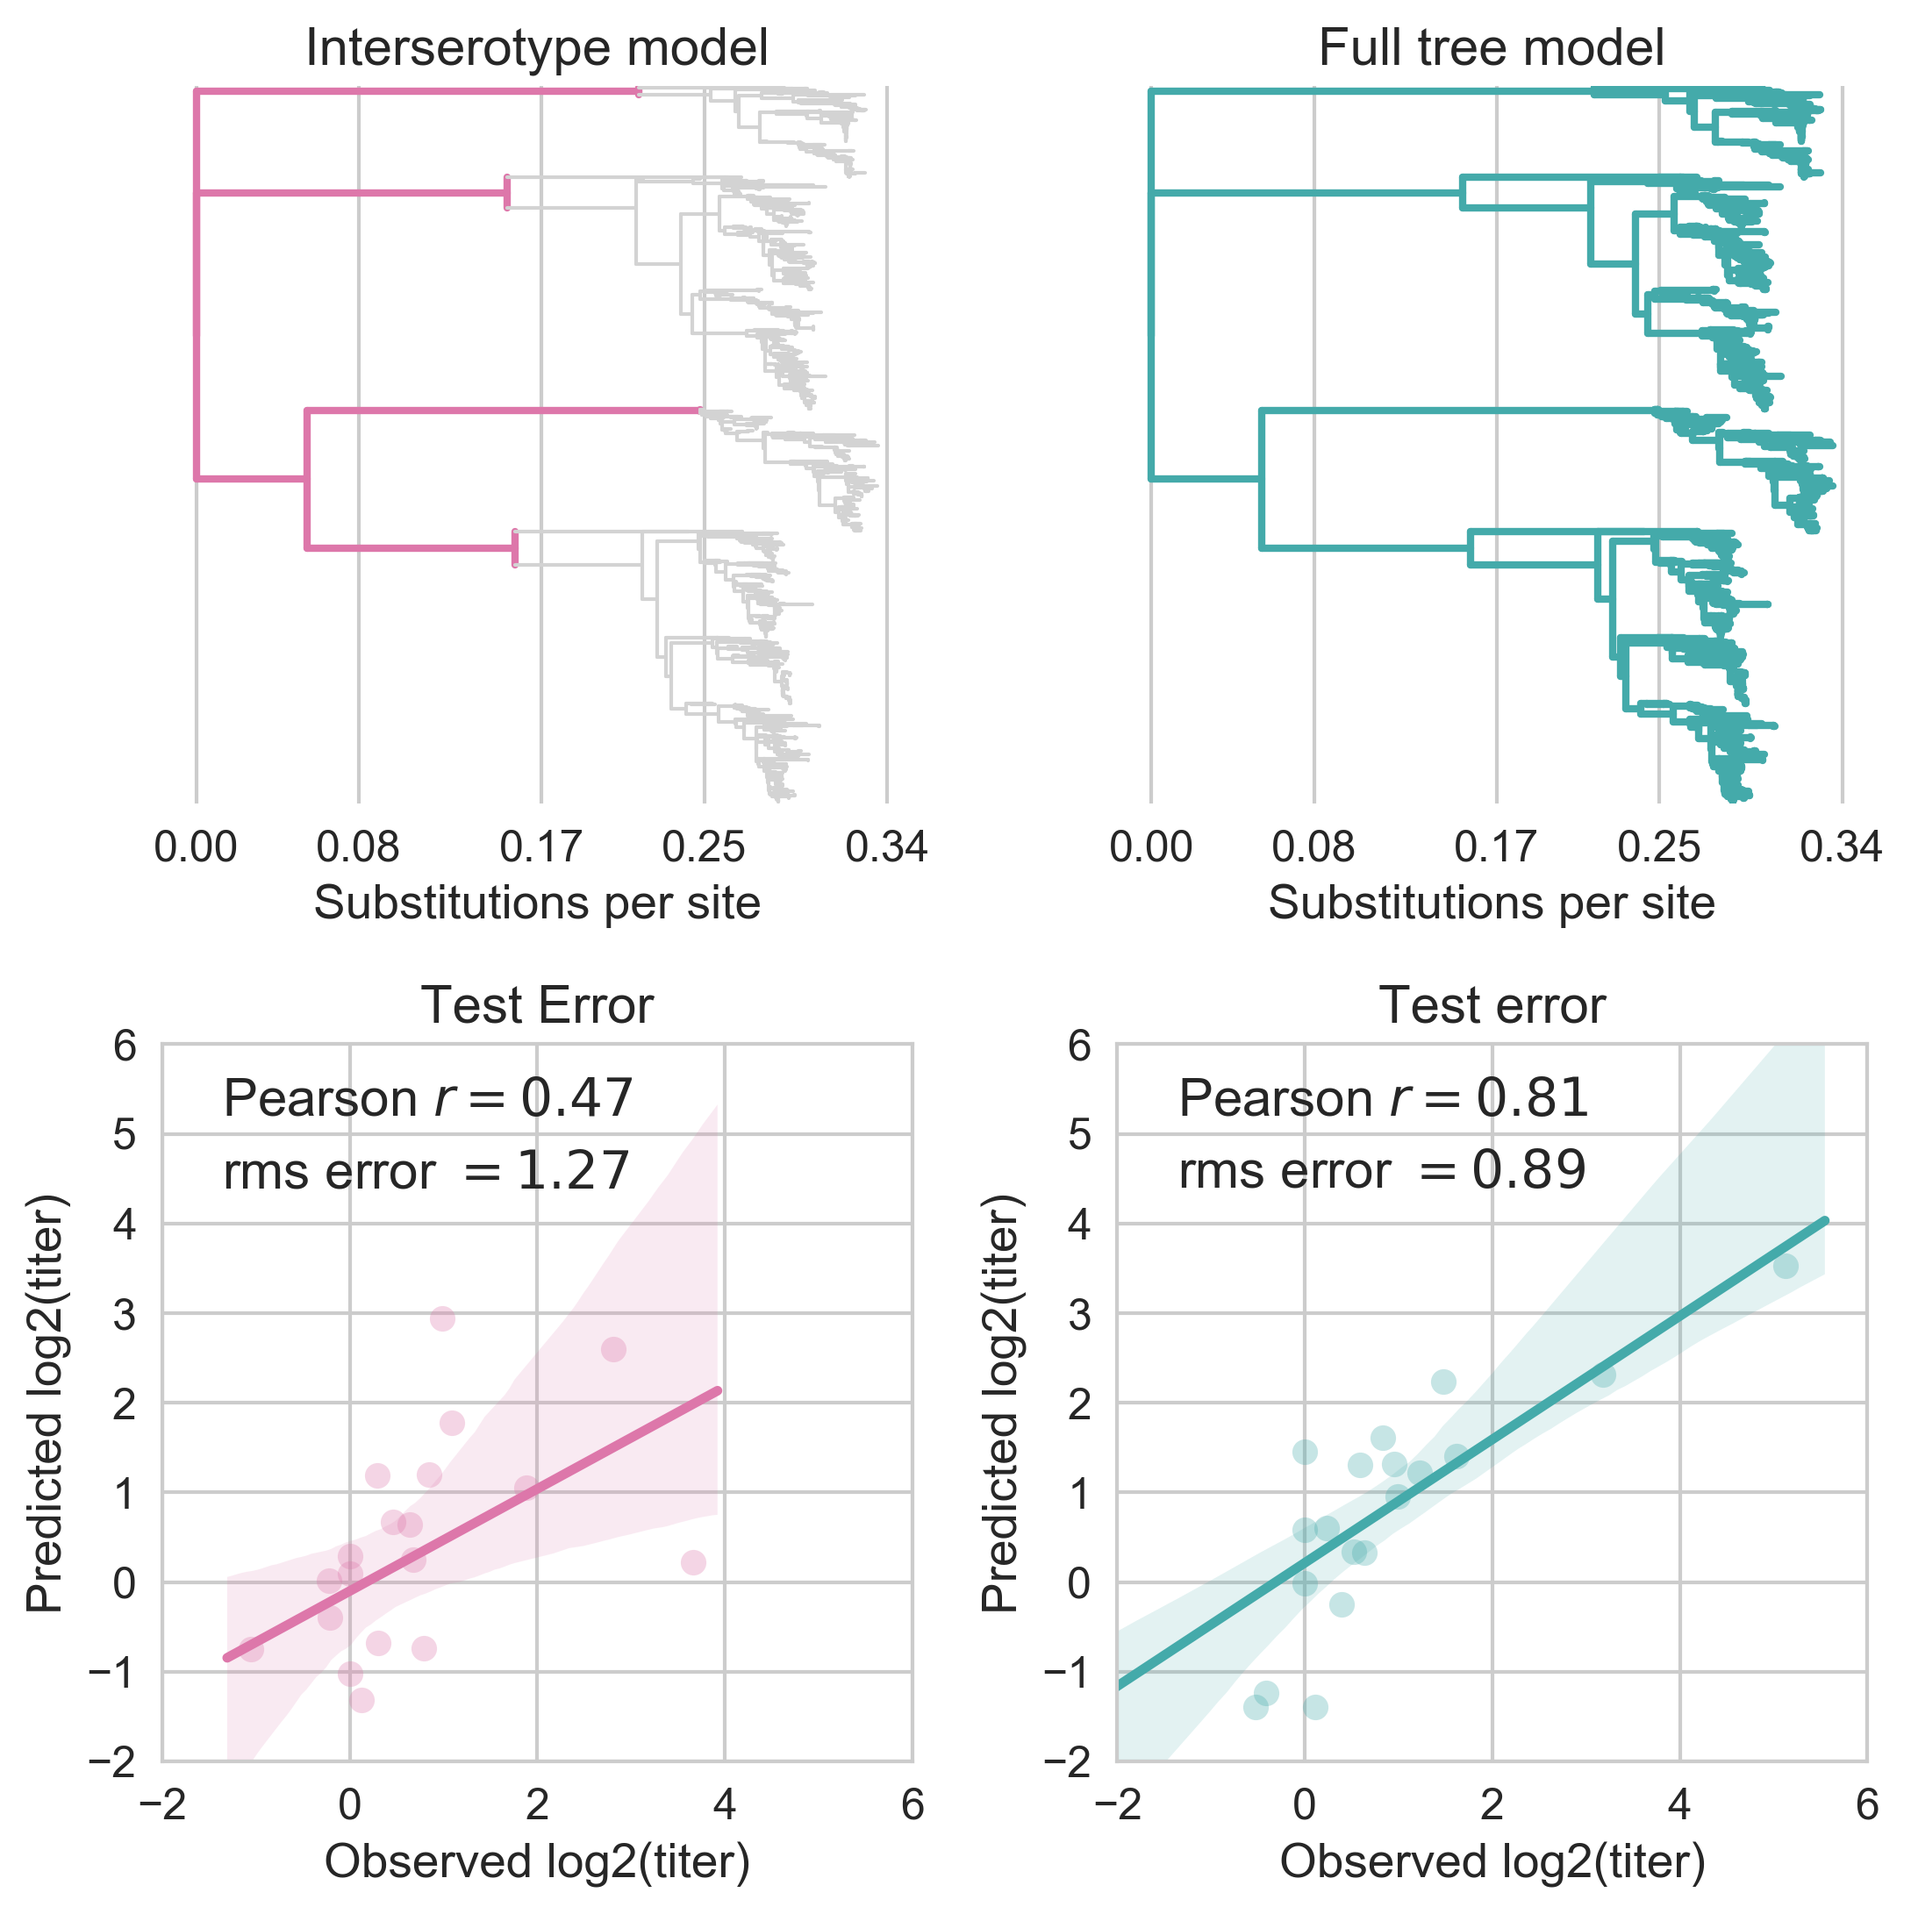
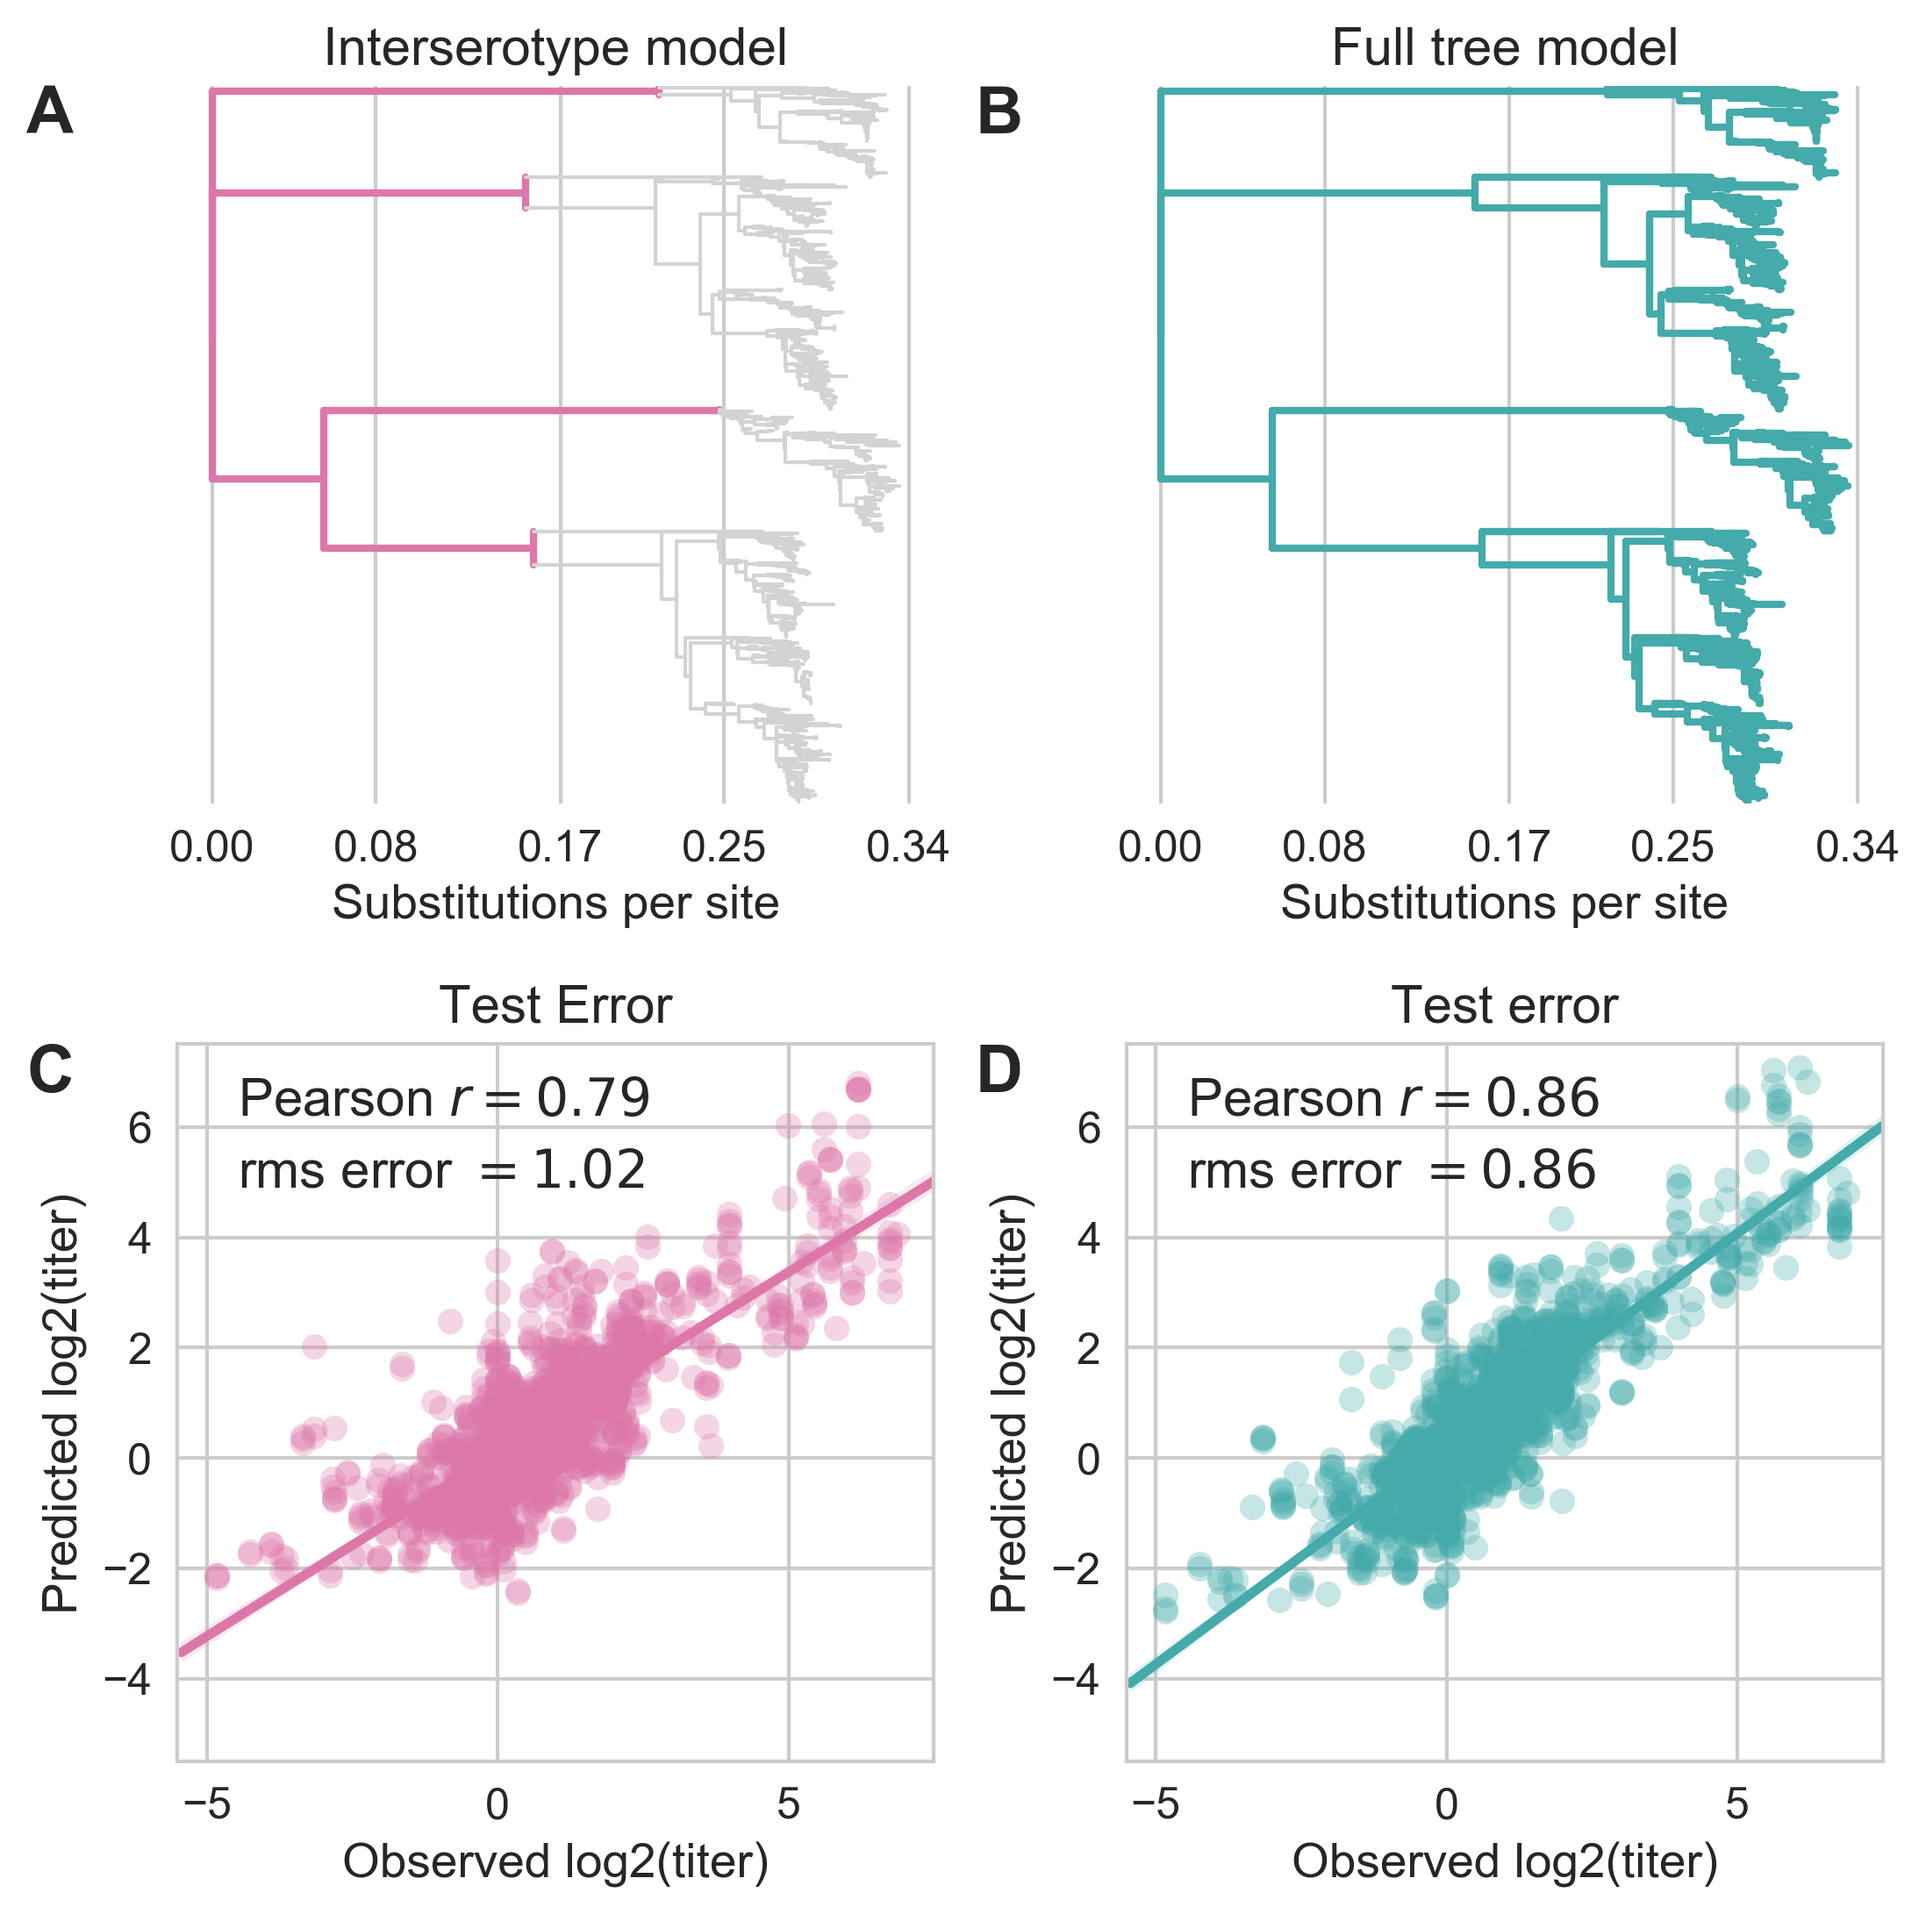
Add subfigure labels, final titer model perf vals

diff --git a/manuscript/dengue-antigenic-evolution.tex b/manuscript/dengue-antigenic-evolution.tex
@@ -254,10 +254,10 @@ We assess model performance by comparing the predicted test titer values to the 
 Model performance indicates how well the hypothesis embedded in the model explains the observed data.
 
 We find that serotype-level characterization is insufficient to explain observed antigenic phenotypes.
-On average, this interserotype model predicts titers within $1.27$ $log_2$ titer units of the true value (root mean squared error, RMSE), and explains $22\%$ of the observed variation in neutralization titers overall (Figure ~\ref{titer_model_performance}).
+On average, this interserotype model predicts titers within $1.02$ $log_2$ titer units of the true value (root mean squared error, RMSE), and explains $62\%$ of the observed variation in neutralization titers overall (Figure ~\ref{titer_model_performance}).
 
 We find that accounting for within-serotype antigenic evolution substantially improves our ability to explain dengue antigenic phenotypes.
-The full tree model is able to predict test titers within $0.89$ $log_2$ titer units of the true value (RMSE approaching the level of error intrinsic to the assay), and explains $66\%$ of the observed variation in neutralization titers overall (Figure ~\ref{titer_model_performance}).
+The full tree model is able to predict test titers within $0.86$ $log_2$ titer units of the true value (RMSE approaching the level of error intrinsic to the assay), and explains $74\%$ of the observed variation in neutralization titers overall (Figure ~\ref{titer_model_performance}).
 Importantly, all reported error metrics refer to performance on test data, so this difference in model performance is not due to the number of free parameters.
 The full tree model performance is comparable to the model error from a cartography-based characterization of the same dataset (RMSE $0.65-0.8$ $log_2$ titer units), and to the error observed when this model was used to characterize an influenza dataset (RMSE of $0.5$ $log_2$ titer units). \sbc{move to discussion?}
 From this, we conclude that there is antigenic evolution within each serotype of DENV, and that this is driven by underlying genetic divergence.
